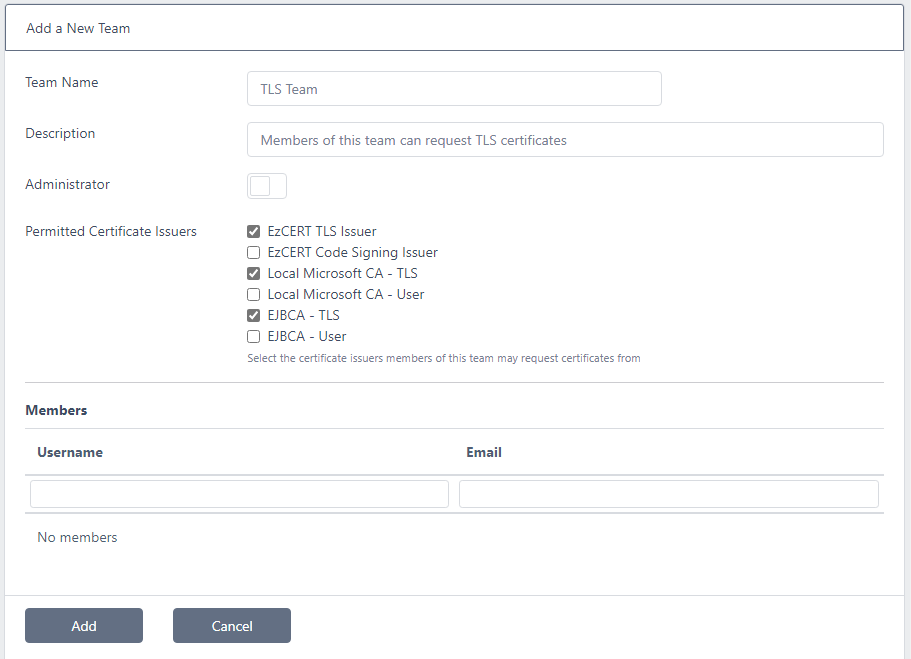
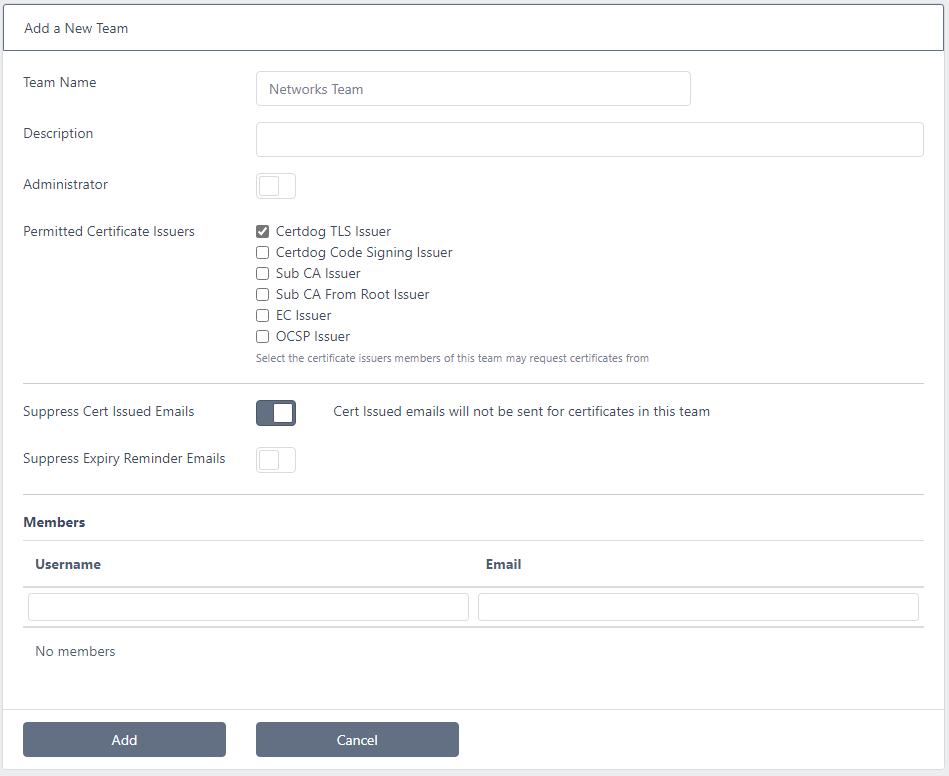
Updated teams

diff --git a/certdog/teams.md b/certdog/teams.md
@@ -25,15 +25,25 @@ This will enable you to quickly search and view users with administrative privil
 
 Select **Teams** from the menu, click **Add New  Team**
 
-<img src=".\images\teams1.png" alt="image-20210222155155216" style="zoom:67%;" />
+<img src=".\images\teams1.png" alt="New Team" style="zoom:80%;" />
 
 Enter a **name** and optionally, a **description**  
 
 Select the **Certificate Issuers** that you want to be available to members of this team 
 
-If you wish to make everyone in this team an administrator, select the **Administrator** option  
+If you wish to make everyone in this team an administrator, select the **Administrator** option. Note that it is recommended that you create a separate Administrators team and add specific users into that team (as users can be members of multiple teams if required)  
+
+**Email Suppression**
+
+When certificates are issued, they are associated with a Team. If your [email settings](email_settings.html) are set to send emails upon certificate issuance, an email is sent to the requestor whenever a certificate is issued. If you wish to prevent these emails being sent out for this team, check the **Suppress Cert Issued Emails** option
+
+If you wish to prevent reminder emails being sent for certificates associated with this team, check the **Suppress Expiry Reminder Emails** option
+
+
 
 Click **Add**  
+
+<br>
 
 ---
 
